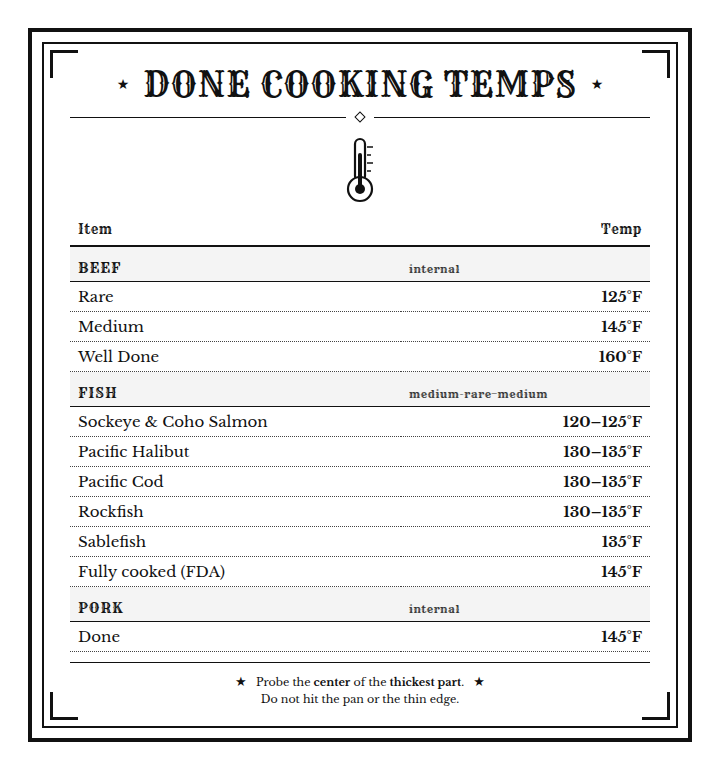
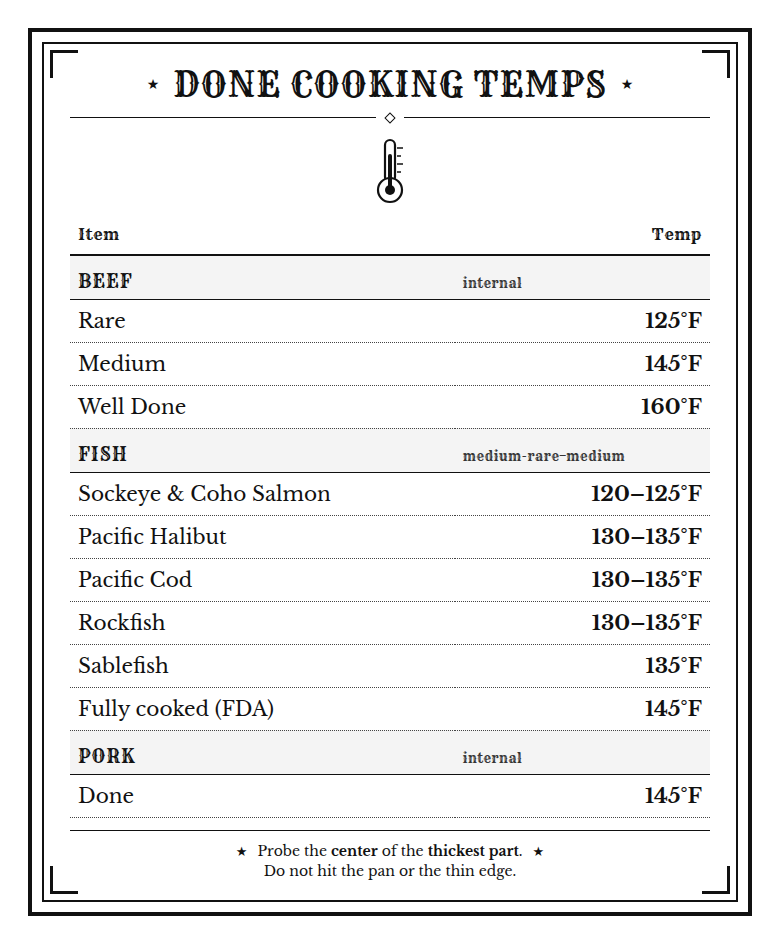
Increase cooking temps table text size for readability

Changed region(s): [[0.0306, 0.0312, 0.9778, 0.9974], [0.55, 0.7792, 0.6722, 0.8104]]

diff --git a/assets/done-cooking-temps-label.html b/assets/done-cooking-temps-label.html
@@ -21,7 +21,7 @@
       min-height: 100vh;
     }
     .label {
-      width: 720px;
+      width: 780px;
       background: var(--paper);
       color: var(--ink);
       padding: 28px;
@@ -99,20 +99,20 @@
       width: 100%;
       border-collapse: collapse;
       font-family: "Libre Baskerville", "Liberation Serif", serif;
-      font-size: 15px;
+      font-size: 20px;
     }
     thead th {
       font-family: "Rye", "Liberation Serif", serif;
-      font-size: 13px;
+      font-size: 16px;
       font-weight: 400;
       letter-spacing: 0.5px;
       text-align: left;
-      padding: 4px 8px 8px;
+      padding: 6px 8px 10px;
       border-bottom: 2px solid var(--ink);
     }
     thead th:last-child { text-align: right; }
     tbody td {
-      padding: 5px 8px;
+      padding: 8px 8px;
       border-bottom: 1px dotted #444;
       vertical-align: baseline;
     }
@@ -121,20 +121,21 @@
       font-variant-numeric: tabular-nums;
       white-space: nowrap;
       font-weight: 700;
+      font-size: 21px;
     }
     tr.section td {
       font-family: "Rye", "Liberation Serif", serif;
-      font-size: 14px;
+      font-size: 18px;
       letter-spacing: 1px;
-      padding-top: 12px;
-      padding-bottom: 4px;
+      padding-top: 14px;
+      padding-bottom: 6px;
       border-bottom: 1.5px solid var(--ink);
       background: #f4f4f4;
     }
     tr.section td:last-child {
       text-align: left;
       font-weight: 400;
-      font-size: 11px;
+      font-size: 13px;
       letter-spacing: 0.5px;
       color: #333;
     }
@@ -146,10 +147,10 @@
       text-align: center;
     }
     .foot {
-      margin-top: 10px;
+      margin-top: 12px;
       text-align: center;
       font-family: "Libre Baskerville", "Liberation Serif", serif;
-      font-size: 11px;
+      font-size: 14px;
       line-height: 1.45;
       border-top: 1px solid var(--ink);
       padding-top: 10px;
